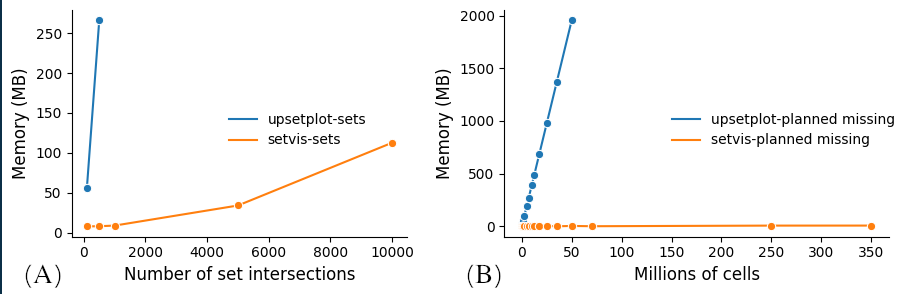
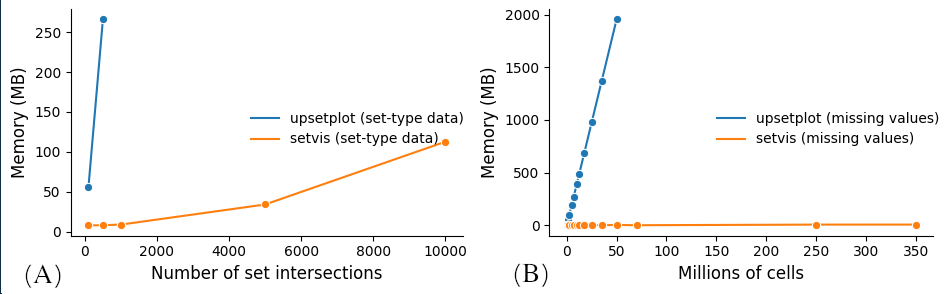
joss: latest revision inc graphs regenerated

diff --git a/joss/paper.md b/joss/paper.md
@@ -72,10 +72,10 @@ Using a 44GB Ubuntu virtual machine, we compared SetVis (v0.1.0) with UpSetPlot 
 
 Tests were run with set-type data that contained two columns, 10,000 – 500,000 rows and 100 – 10,000 set intersections. UpSetPlot crashed when the 500,000 row dataset contained more than 500 intersections. By contrast, SetVis only used 113 MB RAM for that dataset (see Figure~\ref{fig:both}).
 
+![(A) Memory used by UpSetPlot and SetVis for set-type data with 500,000 rows, two columns and a range of set intersections. There were always 10\% more sets than intersections. (B) Memory used by UpSetPlot and SetVis for visualizing patterns of missing data. The number of cells equals the number of rows $\times$ columns in a dataset. \label{fig:both}](comb.png)
+
 The difference was even more pronounced when the packages were used to analyze missing data (10,000 – 500,000 rows; 10 – 700 columns; each row missing one value). UpSetPlot's memory scaled linearly with the number of cells (i.e., rows $\times$ columns) in a dataset, whereas SetVis's memory only increased gradually (see Figure~\ref{fig:both}). There was a similarly large difference when each row contained 1 – 50 missing values (100 – 10,000 set intersections in each dataset), because for missing data UpSetPlot keeps a copy of the input Pandas dataframe, as well as having a memory-hungry design.
 
-
-![(A) Memory used by UpSetPlot and SetVis for set-type data with 500,000 rows, two columns and a range of set intersections. There were always 10\% more sets than intersections. (B) Memory used by UpSetPlot and SetVis for the planned missingness pattern. The number of cells equals the number of rows $\times$ columns in a dataset. \label{fig:both}](comb.png)
 
 # Acknowledgements
 
